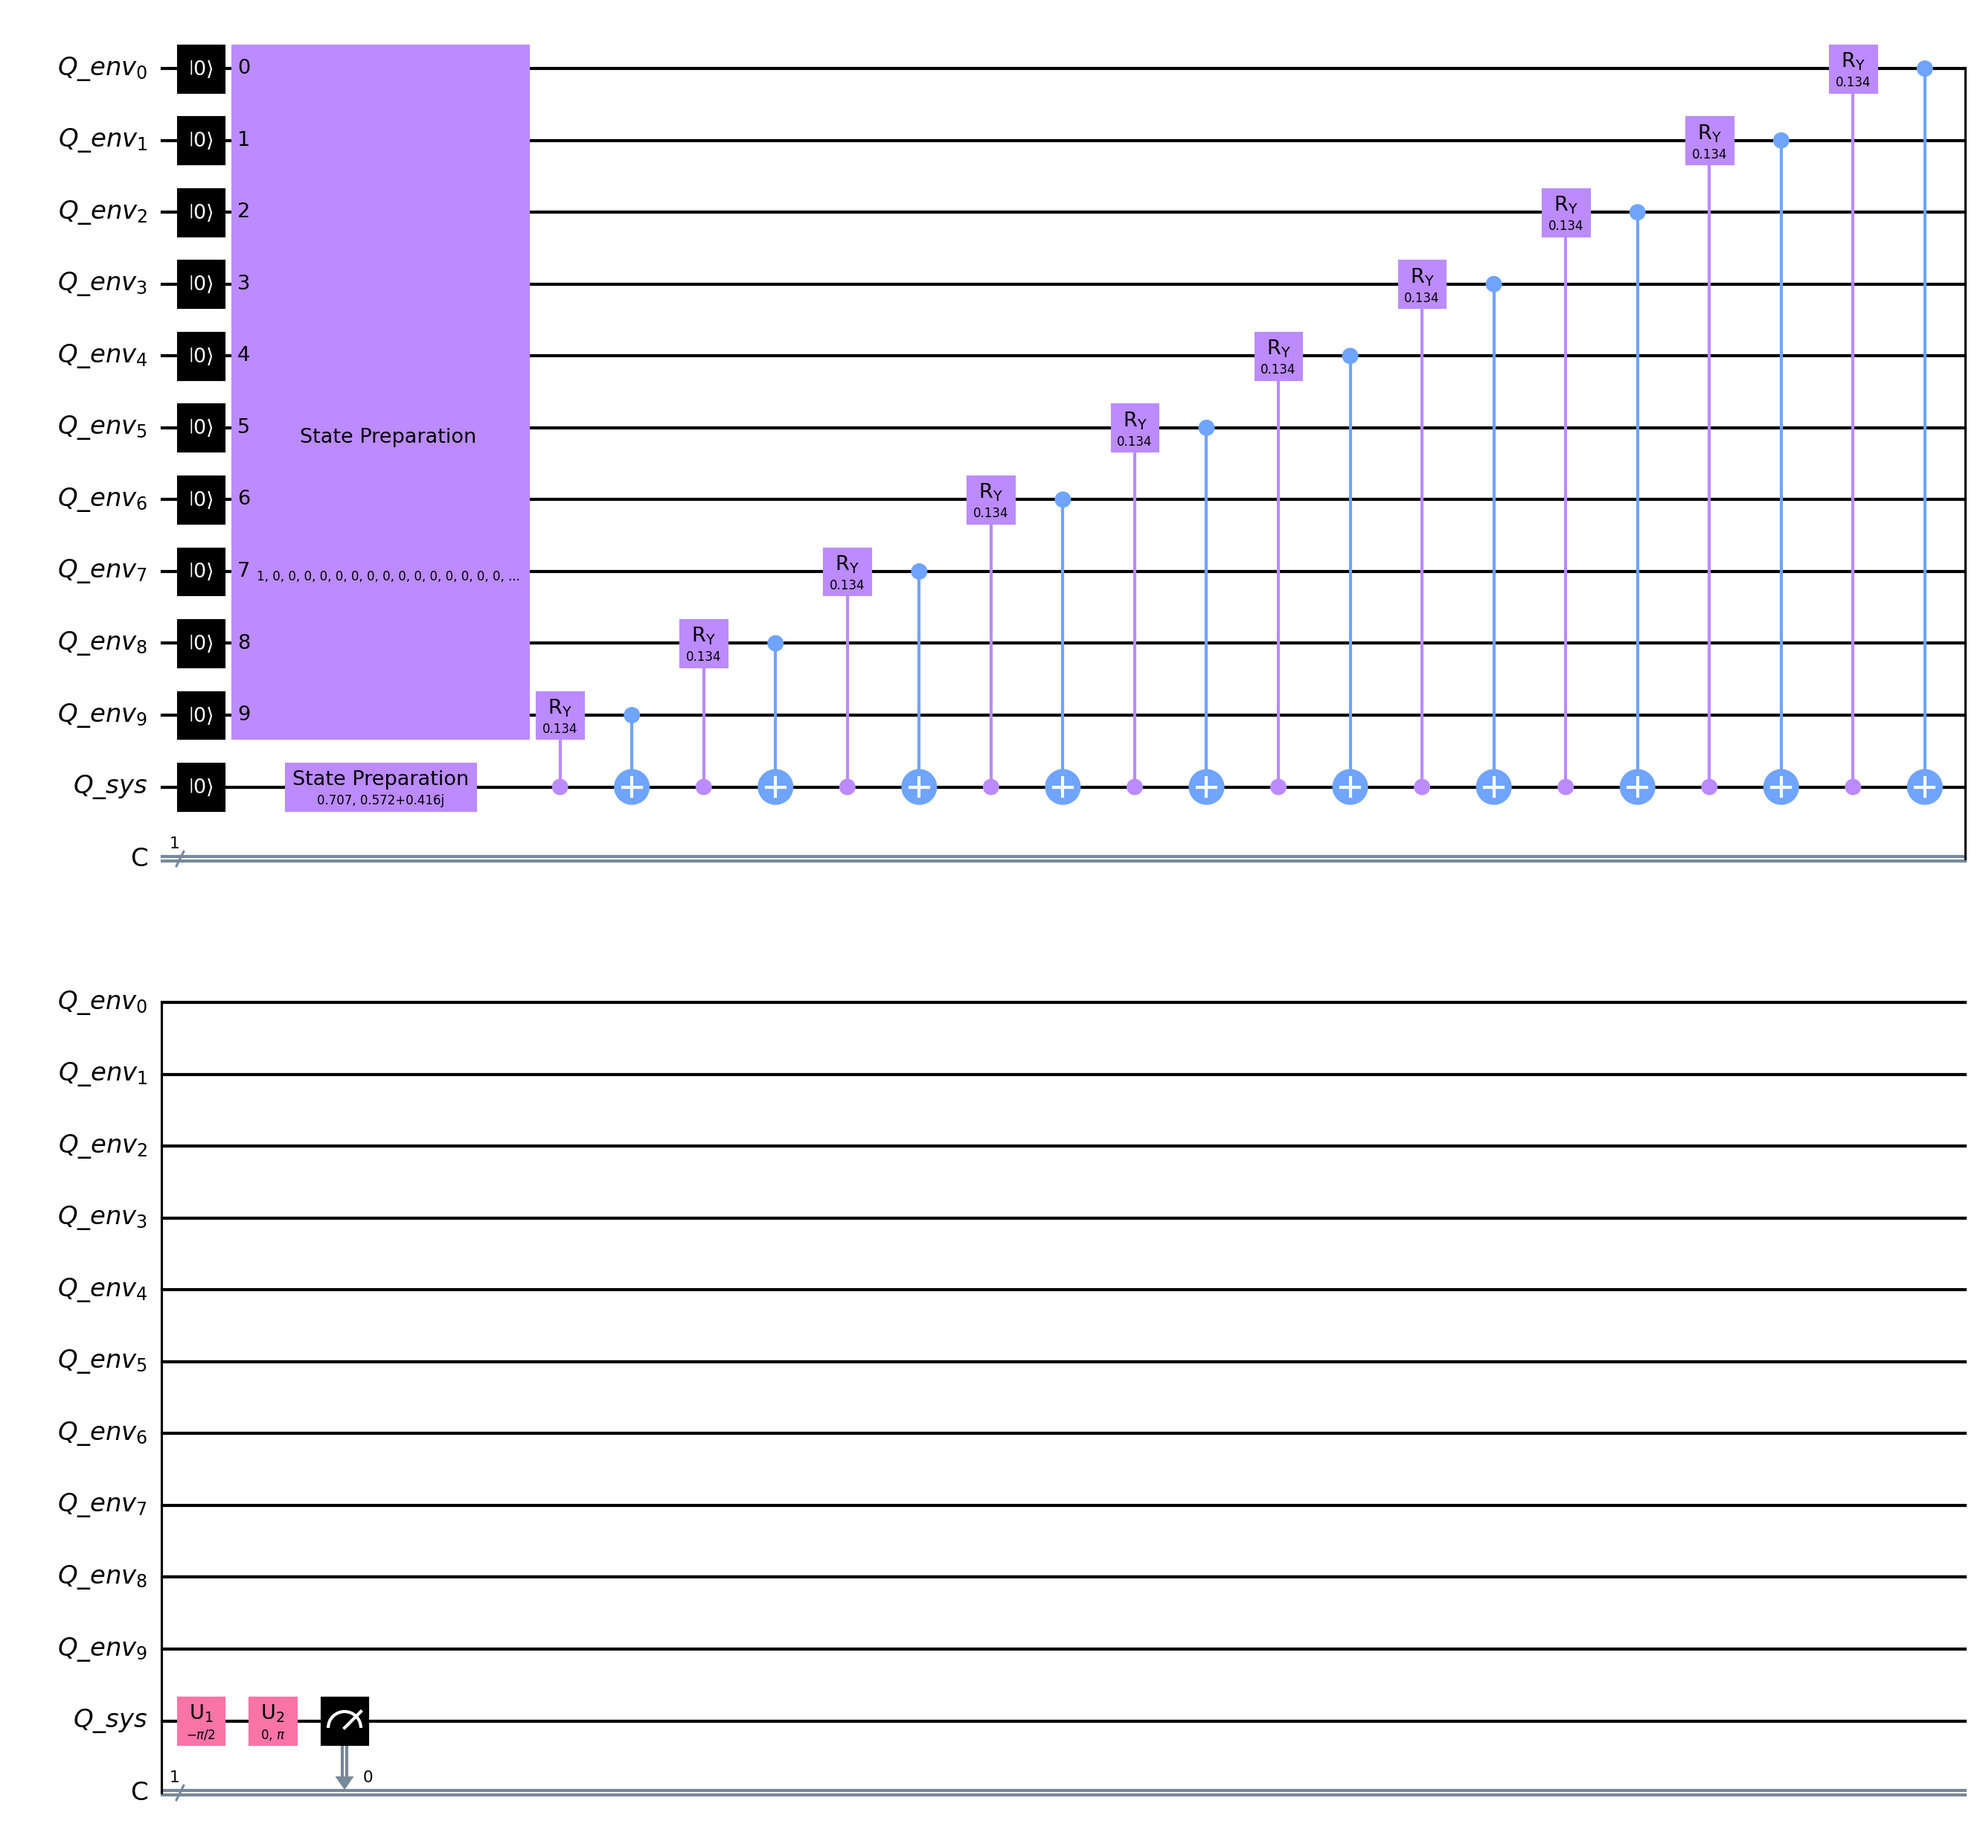
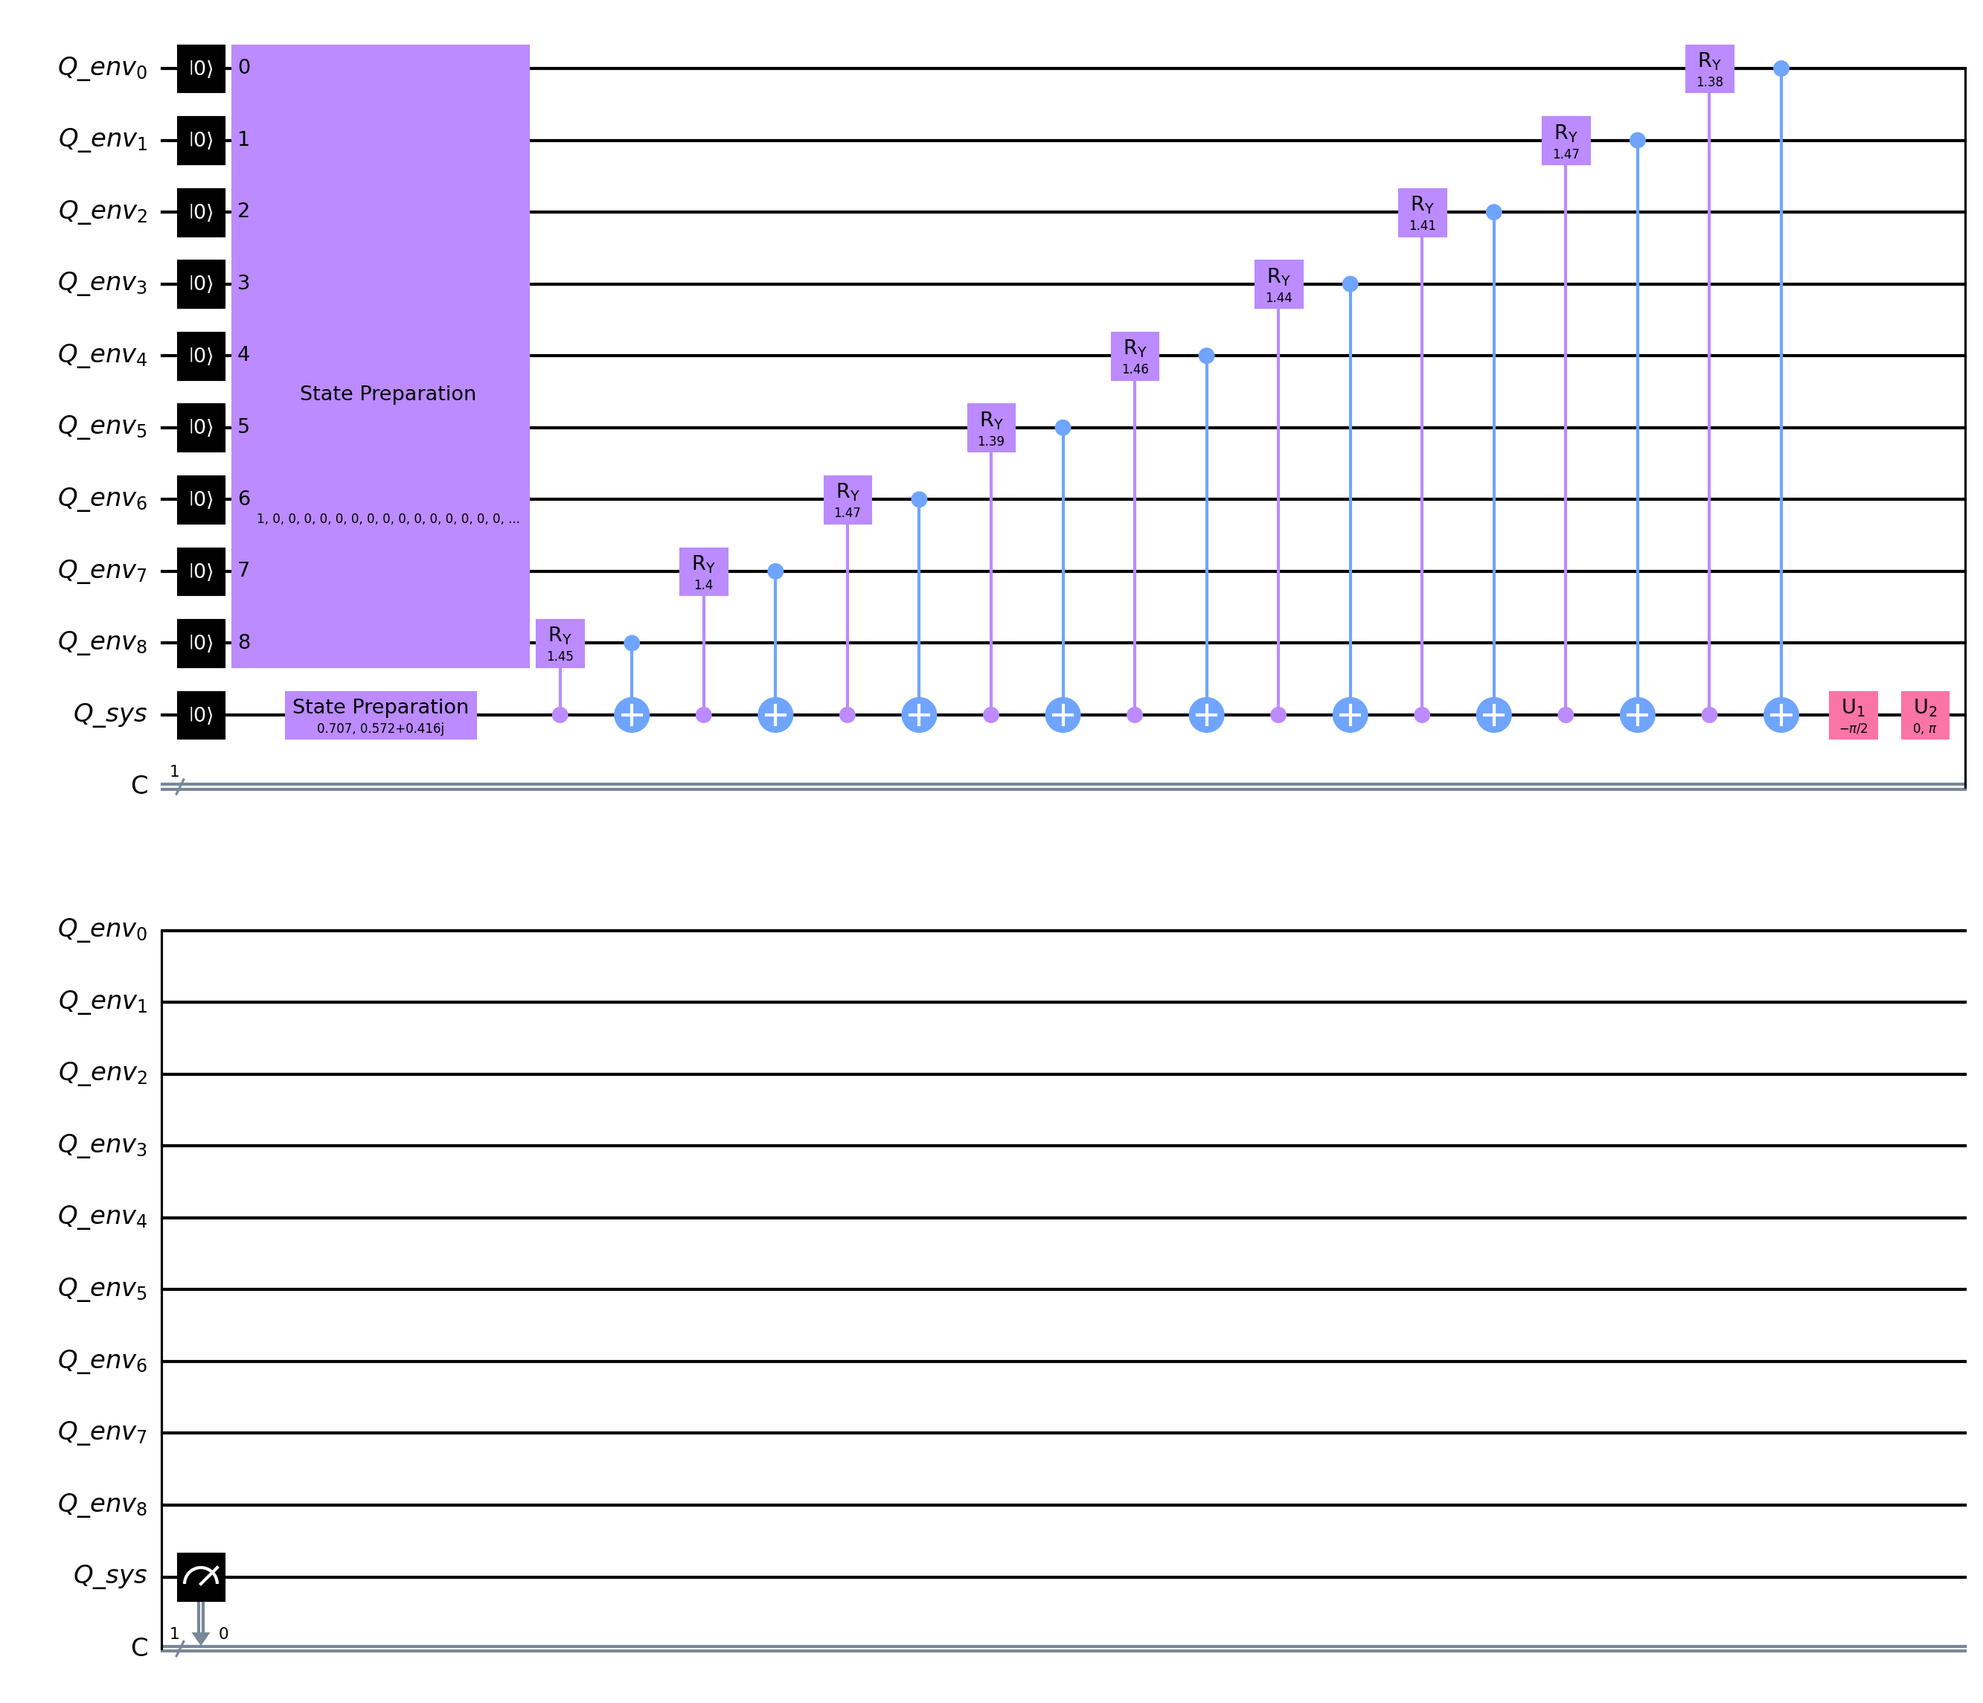
Fixed update of angle theta in circuit representation

Changed region(s): [[0.0311, 0.0, 0.9966, 0.4653], [0.0311, 0.5273, 0.9966, 0.9926], [0.1557, 0.2171, 0.2492, 0.2481]]

diff --git a/q_memristor/circuits/memristor_dynamic2.py b/q_memristor/circuits/memristor_dynamic2.py
@@ -70,13 +70,13 @@ if __name__ == '__main__':
 
         print('Time-step: ', t[i])
 
-        theta = np.arccos(np.exp(mem.k(t[i], t[i+1])))
-        print('Theta: ', theta)
-
-        # Implementation of controlled-RY (cry) gate
-        cry = RYGate(theta).control(1)
-
         if i == 0:
+            theta = np.arccos(np.exp(mem.k(t[0], t[1])))
+            print('Theta: ', theta, ' at time: ', 0.0)
+
+            # Implementation of controlled-RY (cry) gate
+            cry = RYGate(theta).control(1)
+
             circuit.append(cry, [Q_sys, Q_env])
             circuit.cnot(Q_env, Q_sys)
 
@@ -84,6 +84,13 @@ if __name__ == '__main__':
             evol_qc = QuantumCircuit(Q_env, Q_sys, name='evolution')
             # Apply cry gate to each timestep of the evolution
             for j in range(i+1):
+                # theta = np.arccos(np.exp(mem.k(t[j], t[j + 1])))
+                # print('K: ', mem.k(t[j], t[j + 1]))
+                print('Theta: ', theta, ' at time: ', t[j])
+
+                # Implementation of controlled-RY (cry) gate
+                cry = RYGate(theta).control(1)
+
                 evol_qc.append(cry, [Q_sys, Q_env[i - j]])
                 evol_qc.cnot(Q_env[i - j], Q_sys)
 
@@ -106,7 +113,7 @@ if __name__ == '__main__':
         # print(circuit.decompose().draw())
 
         # Save image of final circuit
-        circuit.decompose().draw('mpl', filename='figures/dynamic_circuit2.png')
+        # circuit.decompose().draw('mpl', filename='figures/dynamic_circuit2.png')
 
         # Execute the circuit using the simulator
         counts, measurements, exp_value = sim.execute_circuit(circuit)

diff --git a/q_memristor/numerical/num_memristor.py b/q_memristor/numerical/num_memristor.py
@@ -49,6 +49,13 @@ class memristor:
         result, _ = quad(integrand, ts, ts_next)
         return -result / 2
 
+    def oscillatory_k(self, t1, t2):
+        k_val = self.y0 * np.sin(self.w * (t1 + t2))
+        if k_val > 0:
+            return -k_val
+        else:
+            return k_val
+
     def get_density_mat(self, k):
         """
             Computes the density matrix p_I of a system at time t
